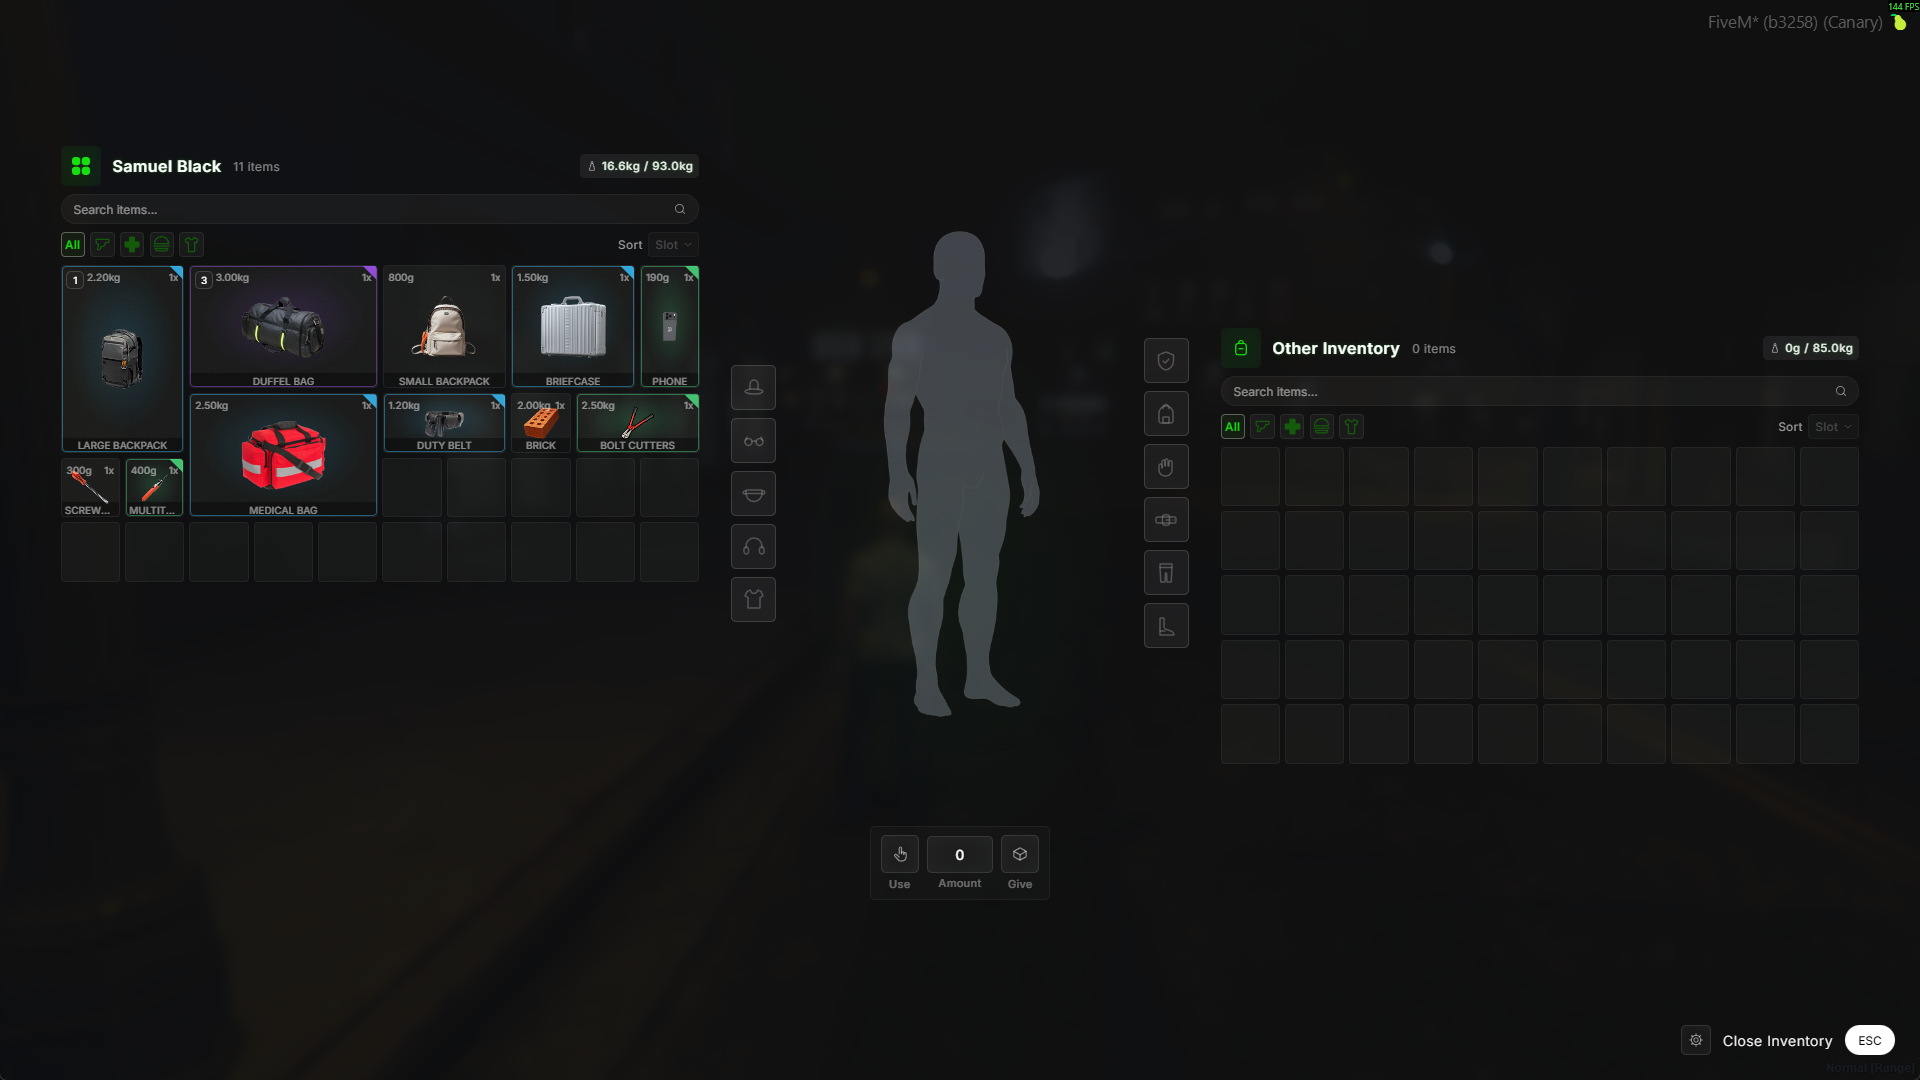
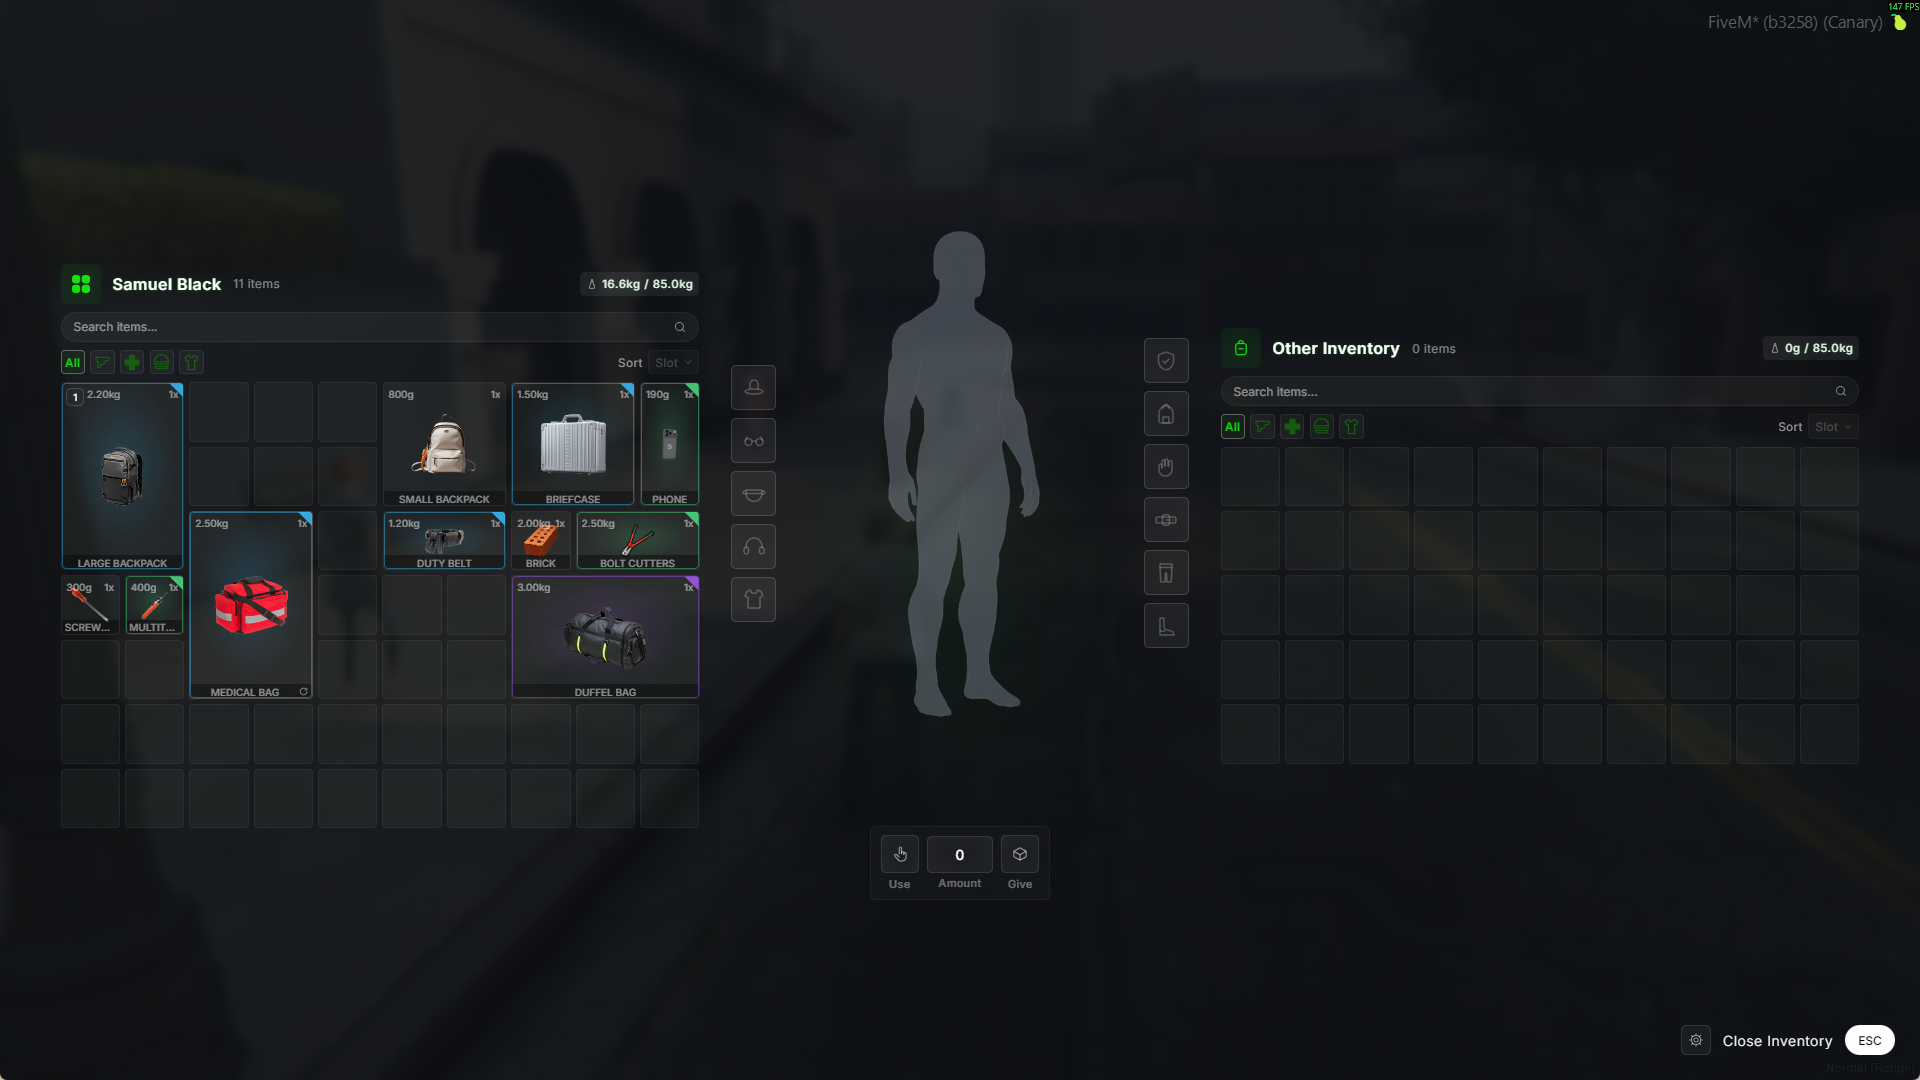
docs: document grid sizing

diff --git a/README.md b/README.md
@@ -65,6 +65,8 @@ layout = 'slots',   -- 'slots' | 'grid'
 ```lua
 grid = {
     columns = 10,
+    rows = 8,
+    containerScale = 1.6,
     allowRotate = true,
     defaultSize = { 1, 1 },
     defaults = {
@@ -76,7 +78,17 @@ grid = {
 },
 ```
 
-`defaults` is the fallback by item class when an item declares no `grid` of its own.
+| Field | Purpose |
+|---|---|
+| `columns` | Cells across, clamped to 5 through 14. |
+| `rows` | Grid layout only. The player inventory becomes `rows * columns` cells, replacing the `inventory:slots` convar. Equipment slots are still appended on top. |
+| `containerScale` | Grid layout only. Multiplies the slot count of every stash, trunk, glovebox, drop and container. |
+| `allowRotate` | Lets players rotate an item with <kbd>R</kbd> while dragging. |
+| `defaults` | Fallback footprint by item class when an item declares no `grid` of its own. |
+
+**Why `rows` and `containerScale` exist.** In slots layout a slot holds one item whatever its size. In grid layout a 2x3 backpack eats six cells. Reusing the same numbers would quietly shrink every inventory on the server the moment you switch, so grid layout sizes the player inventory from `rows` and scales every container by `containerScale`. Both apply only when `layout = 'grid'`, and slots layout keeps using `inventory:slots` and each container's registered count untouched.
+
+Scaling is proportional rather than equalising: a small stash stays smaller than a large one, it simply stops losing capacity relative to slots layout.
 
 > [!WARNING]
 > Switching an existing server from `slots` to `grid` does not reflow inventories that already have items in them. Positions were assigned under the old layout and will overlap. Change it on a fresh database, or expect players to rearrange.
